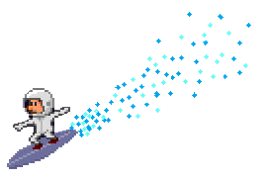
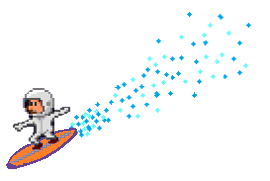
add title and ufo, fix textbox

Changed region(s): [[0.0296, 0.6906, 0.2963, 0.9392]]

diff --git a/style.css b/style.css
@@ -1,20 +1,76 @@
 .dragme {
 	position: relative;
 	cursor: move;
-	max-width: 270px;
+	width: 270px;
+}
+
+.textbox {
+	display: inline-block;
+	overflow: hidden;
+	padding: 10px;
+	font-family: "Press Start 2P";
+	font-size: 12px;
+	color: #f0efb7;
+	--inner: #290829;
+	--border: #6bd6bd;
+	--accent: #6bd6bd;
+	text-align: center;
+}
+
+/* PIXEL BORDER - originally designed by https://codepen.io/fallwestmike*/
+.pxl-border {
+	transform: translateZ(0);
+	background: var(--inner);
+	box-shadow:
+	  /* Inner Background Color -- Same as inner */ 0 -6px 0 -2px
+			var(--inner),
+		0 6px 0 -2px var(--inner), 0 -12px 0 -4px var(--inner),
+		0 12px 0 -4px var(--inner), 0 -18px 0 -8px var(--inner),
+		0 18px 0 -8px var(--inner), 0 -24px 0 -12px var(--inner),
+		0 24px 0 -12px var(--inner), /* Inner Border */ -2px 0 0 0 var(--border),
+		2px 0 0 0 var(--border), 0 -4px 0 0 var(--border), 0 4px 0 0 var(--border),
+		0 -10px 0 -2px var(--border), 0 10px 0 -2px var(--border),
+		0 -14px 0 -4px var(--border), 0 14px 0 -4px var(--border),
+		0 -20px 0 -8px var(--border), 0 20px 0 -8px var(--border),
+		0 -26px 0 -12px var(--border), 0 26px 0 -12px var(--border),
+		/* Middle Border -- Accent */ -4px 0 0 0 var(--accent),
+		4px 0 0 0 var(--accent), 0 -2px 0 2px var(--accent),
+		0 2px 0 2px var(--accent), 0 -8px 0 0px var(--accent),
+		0 8px 0 0px var(--accent), 0 -12px 0 -2px var(--accent),
+		0 12px 0 -2px var(--accent), 0 -16px 0 -4px var(--accent),
+		0 16px 0 -4px var(--accent), 0 -22px 0 -8px var(--accent),
+		0 22px 0 -8px var(--accent), 0 -28px 0 -12px var(--accent),
+		0 28px 0 -12px var(--accent), /* Outer Border */ -6px 0 0 0 var(--border),
+		6px 0 0 0 var(--border), 0 0 0 4px var(--border), 0 -6px 0 2px var(--border),
+		0 6px 0 2px var(--border), 0 -10px 0 0 var(--border),
+		0 10px 0 0 var(--border), 0 -14px 0 -2px var(--border),
+		0 14px 0 -2px var(--border), 0 -18px 0 -4px var(--border),
+		0 18px 0 -4px var(--border), 0 -24px 0 -8px var(--border),
+		0 24px 0 -8px var(--border), 0 -30px 0 -12px var(--border),
+		0 30px 0 -12px var(--border);
 }
 
 #welcome {
-	background-color: transparent;
-	color: white;
-	text-align: center;
-	top: 400px;
-	left: 50%;
+	top: 85%;
+	left: 5%;
+	overflow: hidden;
+	position: absolute;
+	width: 550px;
+	line-height: 15pt;
 }
 
 #surfer {
 	top: 350px;
 	left: 500px;
+}
+
+#sign {
+	font-family: "Playfair Display SC";
+	font-size: 50px;
+	color: #ff9933;
+	position: absolute;
+	top: 5%;
+	left: 40%;
 }
 
 #feelfree {
@@ -154,8 +210,8 @@
 	-ms-transform: translateX(-100%); /* IE 9 */
 	transform: translateX(-100%); /* Firefox 16+, IE 10+, Opera */
 
-	-webkit-transition: all 0.35s 0.15s cubic-bezier(0.645, 0.045, 0.355, 1);
-	transition: all 0.35s 0.15s cubic-bezier(0.645, 0.045, 0.355, 1);
+	-webkit-transition: all 0.7s 0.3s cubic-bezier(0.645, 0.045, 0.355, 1);
+	transition: all 0.7s 0.3s cubic-bezier(0.645, 0.045, 0.355, 1);
 }
 
 .loaded #loader-wrapper .loader-section.section-right {
@@ -163,8 +219,8 @@
 	-ms-transform: translateX(100%); /* IE 9 */
 	transform: translateX(100%); /* Firefox 16+, IE 10+, Opera */
 
-	-webkit-transition: all 0.35s 0.15s cubic-bezier(0.645, 0.045, 0.355, 1);
-	transition: all 0.35s 0.15s cubic-bezier(0.645, 0.045, 0.355, 1);
+	-webkit-transition: all0.7s 0.3s cubic-bezier(0.645, 0.045, 0.355, 1);
+	transition: all 0.7s 0.3s cubic-bezier(0.645, 0.045, 0.355, 1);
 }
 
 .loaded #loader {
@@ -179,8 +235,8 @@
 	-ms-transform: translateY(-100%); /* IE 9 */
 	transform: translateY(-100%); /* Firefox 16+, IE 10+, Opera */
 
-	-webkit-transition: all 0.3s 0.5s ease-out;
-	transition: all 0.3s 0.5s ease-out;
+	-webkit-transition: all 0.3s 1s ease-out;
+	transition: all 0.3s 1s ease-out;
 }
 
 /* JavaScript Turned Off */
@@ -289,4 +345,5 @@ html {
 	background-repeat: no-repeat;
 	background-size: cover;
 	z-index: -1;
+	overflow: hidden;
 }

diff --git a/index.html b/index.html
@@ -38,20 +38,35 @@
 		</div>
 
 		<div id="content">
-			<div id="welcome" class="dragme">
-				Welcome to the final frontier
+			<div id="sign">
+				W I L L I A M // C H E N
 			</div>
+			<div id="welcome" class="pxl-border textbox">
+				Click and drag things to the UFO Scanner. Or drag the UFO Scanner on top
+				of things. Its up to you. Thanks for visiting and explore!
+			</div>
+
 			<div id="surfer" class="dragme">
-				<img src="surfer.png" />
-				<span class="tooltiptext">Tooltip text</span>
+				<img src="surfer1.png" />
 			</div>
-			<div id="feelfree" class="dragme">
+			<div id="ufo" class="dragme">
+				<img src="ufo1.png" />
+			</div>
+			<!-- <div id="feelfree" class="dragme">
 				<img src="feel_free.png" />
 				<span class="tooltiptext">Tooltip text</span>
-			</div>
+			</div> -->
 		</div>
 
 		<script src="script.js"></script>
 		<link rel="stylesheet" type="text/css" href="style.css" />
+		<link
+			href="https://fonts.googleapis.com/css2?family=Press+Start+2P&display=swap"
+			rel="stylesheet"
+		/>
+		<link
+			href="https://fonts.googleapis.com/css2?family=Playfair+Display+SC&display=swap"
+			rel="stylesheet"
+		/>
 	</body>
 </html>

diff --git a/script.js b/script.js
@@ -14,9 +14,11 @@ function startDrag(e) {
 
 	console.log(targ);
 
-	targ.style.zIndex = MAXZ++;
+	if (targ.id != "ufo") {
+		targ.style.zIndex = MAXZ++;
+	}
 
-	if (targ.className != "dragme") {
+	if (!targ.className.includes("dragme")) {
 		return;
 	}
 
@@ -65,11 +67,11 @@ function stopDrag() {
 function initalizeItems() {
 	surfer = document.getElementById("surfer");
 	surfer.style.left = "1000px";
-	surfer.style.top = "200px";
+	surfer.style.top = "350px";
 
-	feelfree = document.getElementById("feelfree");
-	feelfree.style.left = "350px";
-	feelfree.style.top = "100px";
+	// feelfree = document.getElementById("feelfree");
+	// feelfree.style.left = "350px";
+	// feelfree.style.top = "100px";
 }
 
 $(document).ready(function () {
@@ -86,4 +88,6 @@ MAXZ = 1;
 window.onload = function () {
 	document.onmousedown = startDrag;
 	document.onmouseup = stopDrag;
+	document.ontouchstart = startDrag;
+	document.ontouchend = stopDrag;
 };
